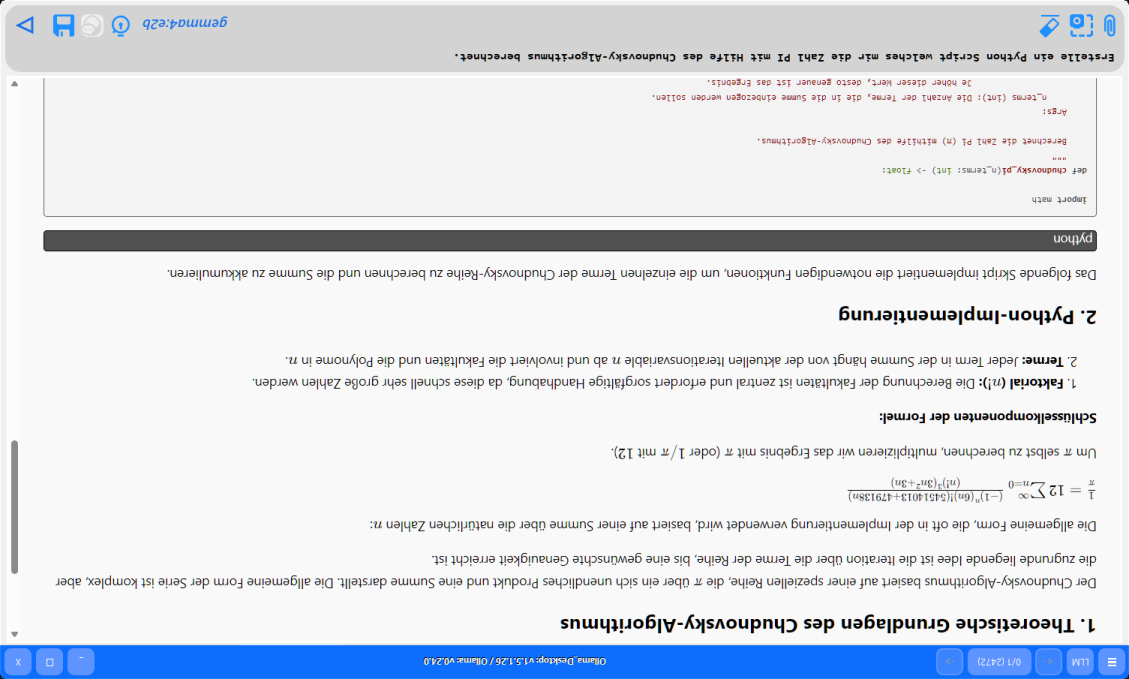
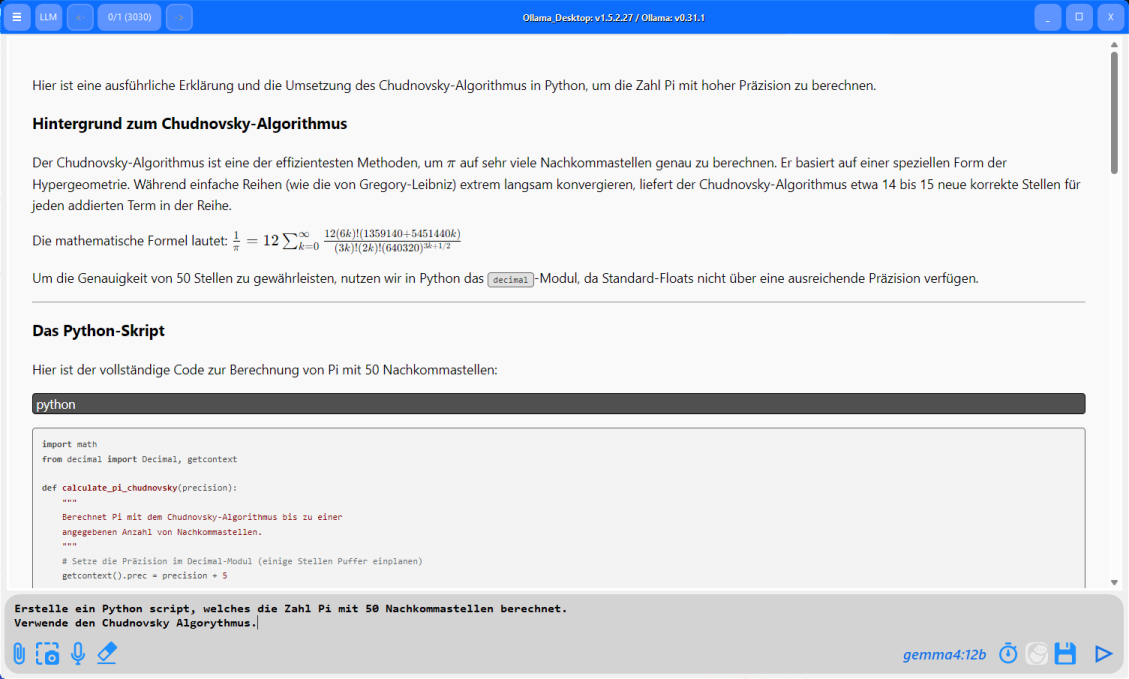
V 1.5.2.27 - Audio import (wav, mp3) (gemma4 feature ...) - Audio Record Button (wav) (gemma4 feature ...) - add qwen3.6 to models_config.json - add ornith to models_config.json

diff --git a/README.de.md b/README.de.md
@@ -17,6 +17,7 @@
 ### ✨ Highlights
 * **🤖 SSH Bot (Autonomer KI-Agent):** Exklusives Feature! Verwandelt die App in einen autonomen Systemadministrator, der Server per SSH verwaltet, Befehle ausführt und selbstständig auf Terminal-Ausgaben reagiert.
 * **Vision-Unterstützung:** Bilder (.jpg,.png) hochladen und analysieren (z. B. mit llava) im Generate-Modus.
+* **Audio Support:** Audio (.wav, .mp3) hochladen und analysieren (z. B. mit gemma4) im Generate-Modus.
 * **Dateien einlesen:** Importieren von Textdateien (.pdf, .txt, .json), um deren Inhalte direkt in den Kontext einzubinden.
 * **RAG-Tool:** Chatten mit großen Dokumenten (.pdf/.txt) durch lokale Wissensextraktion.
 * **Chat-Modus:** Modellwechsel während der Konversation möglich.
@@ -24,6 +25,7 @@
 * **JSON-Modus:** Erzwingen von strukturierten Antworten.
 * **Code-Ausführung:** Direktes Ausführen von Python, PowerShell oder Batch-Skripten.
 * **Screenshots:** Verabeiten von Screenshots durch ein Vision LLM.
+* **Audio Aufnahme:** Verarbeiten von Audio Aufnahmen durch ein Vision LLM mit Audio Unterstützung (gemma4).
 * **Formelausgabe:** Anzeigen von mathematischen Formeln (LaTeX Unterstützung).
 * **Bildgenerierung:** Unterstützung für die Bildgenerierung der Modelle x/z-image-turbo und x/flux2-klein.
 

diff --git a/README.md b/README.md
@@ -17,6 +17,7 @@
 ### ✨ Highlights
 * **🤖 SSH Bot (Autonomous AI Agent):** Exclusive feature! Transforms the app into an autonomous system administrator that manages servers via SSH, executes commands, and independently reacts to terminal outputs.
 * **Vision Support:** Upload and analyze images (.jpg, .png) (e.g., with llava) in Generate mode.
+* **Audio Support:** Upload and analyze audio (.wav, .mp3) (e.g., with gemma4) in Generate mode.
 * **Read Files:** Import text files (.pdf, .txt, .json) to include their contents directly into the context.
 * **RAG Tool:** Chat with large documents (.pdf/.txt) through local knowledge extraction.
 * **Chat Mode:** Model switching during conversation is possible.
@@ -24,6 +25,7 @@
 * **JSON Mode:** Enforce structured responses.
 * **Code Execution:** Direct execution of Python, PowerShell, or Batch scripts.
 * **Screenshots:** Process screenshots through a Vision LLM.
+* **Audio Record:** Process audio record through a Vision LLM with audio support (gemma4).
 * **Formula Output:** Display mathematical formulas (LaTeX support).
 * **Image Generation:** Support for image generation with models x/z-image-turbo and x/flux2-klein.
 